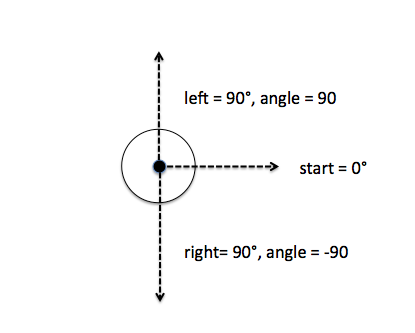
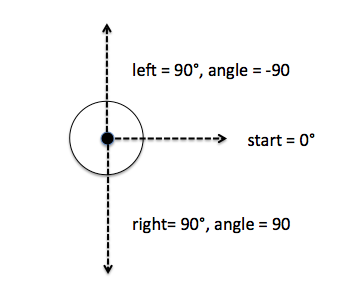
closed #8 updated doc

Changed region(s): [[0.2077, 0.0616, 0.8605, 0.9555], [0.7122, 0.4315, 0.9496, 0.524], [0.2077, 0.4932, 0.2671, 0.5856]]

diff --git a/challenges/rover/player-interface.md b/challenges/rover/player-interface.md
@@ -102,7 +102,7 @@ When you are in a running game, you receive the state of the game on the topic
 
 ### <a name="robot-state"></a> Receive state of hardware
 
-The robot will send the current state of the gryro sensor (angle) and the position of the left and right motor to the topic _'robot/state'_. The angle is in degree the robot has turned. Left turns will increase and right turns decrease the angle values. The value of the left_motor and right_motor is the position of the motor in tacho counts. Driving forward will increase and driving backwards will decrease the tacho counts.
+The robot will send the current state of the gryro sensor (angle) and the position of the left and right motor to the topic _'robot/state'_. The angle is in degree the robot has turned. Right turns will increase and left turns decrease the angle values. The value of the left_motor and right_motor is the position of the motor in tacho counts. Driving forward will increase and driving backwards will decrease the tacho counts.
 
 
 ```json
@@ -202,7 +202,7 @@ Example: missing argument
 {"type": "TypeError", "error": "func_wrapper() missing 1 required positional argument: 'value'"}
 ```
 
-## Positional system
+## Positional system and robot state
 
 The world is based on x/y coordinates. Where the left bottom is (0,0) and the upper right corner is (x_max, y_max).  
 
@@ -212,6 +212,10 @@ The robot, the craters and supply items are given as point with x/y coordinates 
 
 ![world](doc/pos.png)
 
-Starting position of the robot is in the center of world. The starting direction is from left to right. Left turns will increase  and right turns decrease the angle value.
+Starting position of the robot is in the center of world. The starting direction is from left to right. Right turns will increase  and left turns decrease the angle value from the gyro sensor.
 
 ![world](doc/angle.png)
+
+Driving forward will increase and driving backwards will decrease the tacho counts.
+
+![world](doc/move.png)
